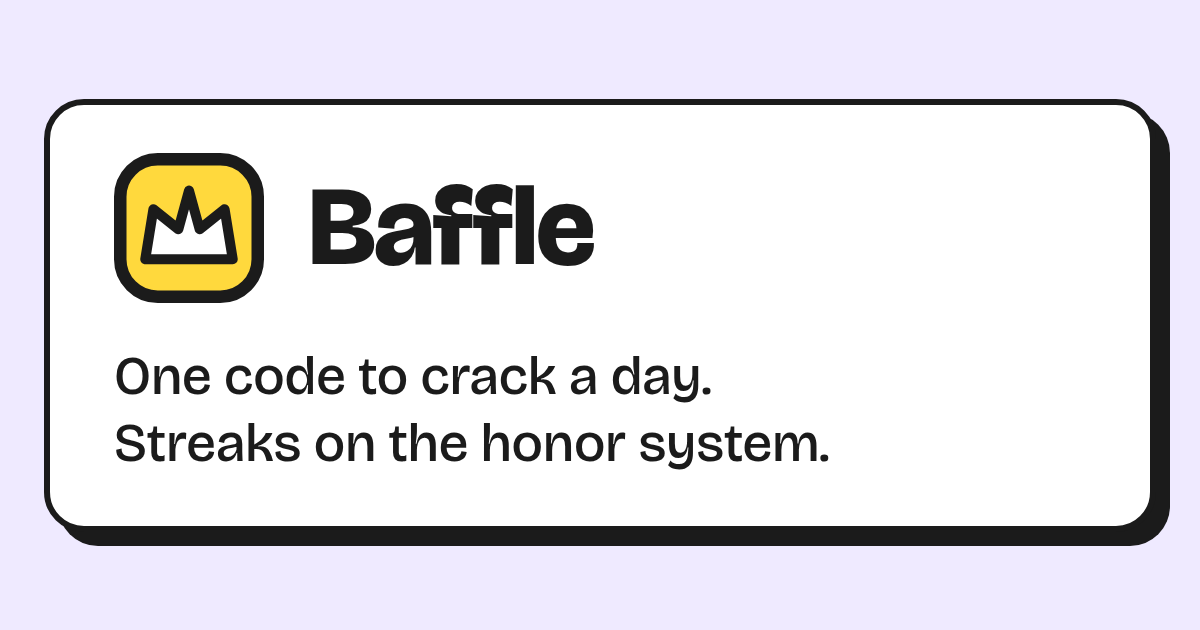
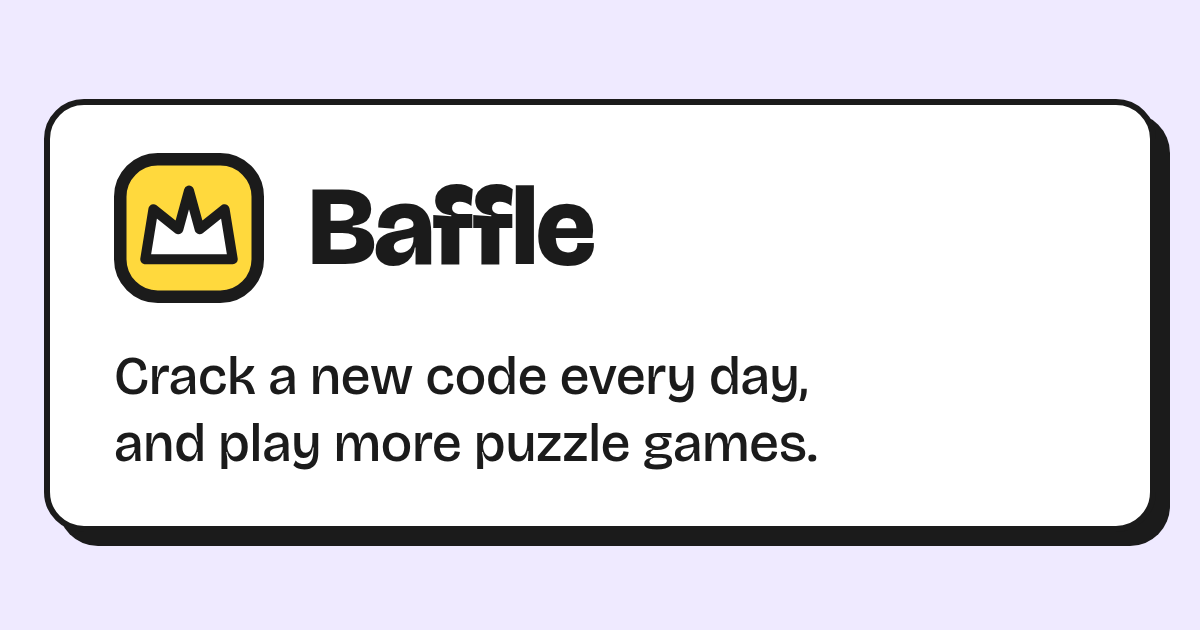
Update the share line

Changed region(s): [[0.0925, 0.6635, 0.6783, 0.754], [0.0925, 0.573, 0.6783, 0.6333]]

diff --git a/index.html b/index.html
@@ -7,14 +7,14 @@
     <link rel="preconnect" href="https://fonts.googleapis.com">
     <link rel="preconnect" href="https://fonts.gstatic.com" crossorigin>
     <link href="https://fonts.googleapis.com/css2?family=Bricolage+Grotesque:opsz,wght@12..96,400;12..96,600;12..96,800&display=swap" rel="stylesheet">
-    <meta name="description" content="One code to crack a day. Streaks on the honor system.">
+    <meta name="description" content="Crack a new code every day, and play more puzzle games.">
     <meta property="og:type" content="website">
     <meta property="og:title" content="Baffle">
-    <meta property="og:description" content="One code to crack a day. Streaks on the honor system.">
+    <meta property="og:description" content="Crack a new code every day, and play more puzzle games.">
     <meta property="og:image" content="https://bzr-sys.github.io/baffle/og.png">
     <meta property="og:image:width" content="1200">
     <meta property="og:image:height" content="630">
-    <meta property="og:image:alt" content="Baffle: One code to crack a day. Streaks on the honor system.">
+    <meta property="og:image:alt" content="Baffle: Crack a new code every day, and play more puzzle games.">
     <meta name="twitter:card" content="summary_large_image">
     <title>Baffle</title>
   </head>
